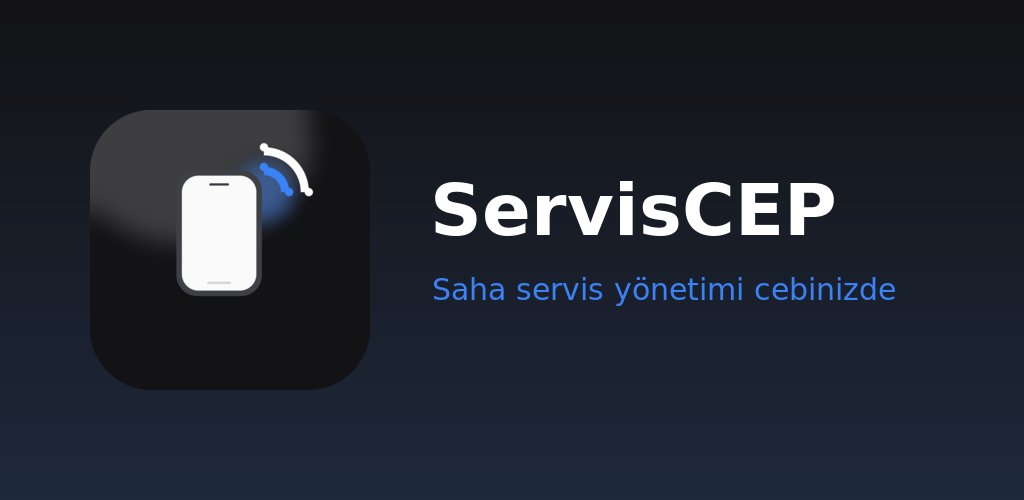
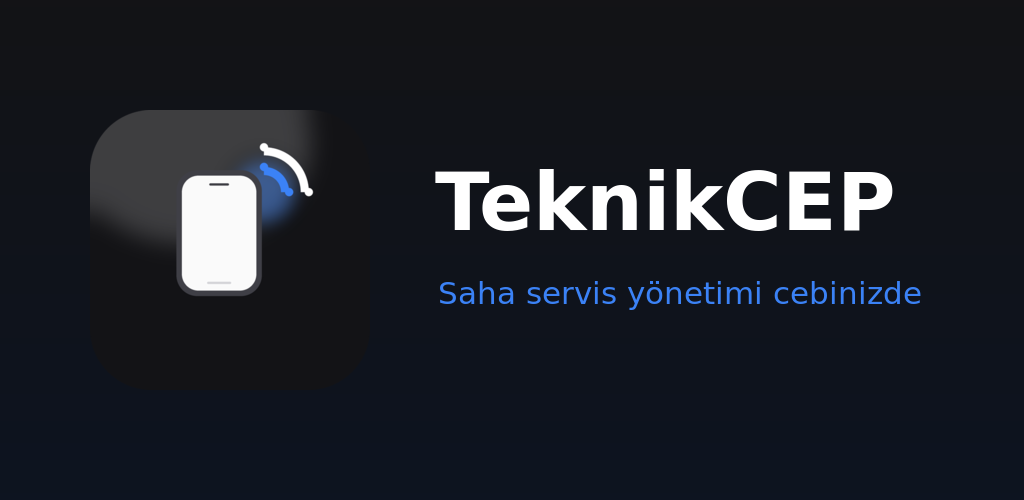
Rebrand: ServisCEP -> TeknikCEP (v0.3.1+16)
Play'de Şubat 2026'dan beri yayında olan "ServisCep" (com.serviscep.app)
ile isim çakışması riski nedeniyle marka adı TeknikCEP olarak değişti.
Teknik kimlikler (paket adı com.cicibyte.serviscep, Dart paket adı,
repo adı, API domaini) bilinçli olarak korunuyor — kullanıcıya görünmez.

- Mobil: Android etiketi, iOS display name, uygulama başlığı, marka
  footer, onboarding metni
- Backend: Filament panel marka adları, composer açıklaması, APP_NAME
- Web placeholder sayfaları: tüm marka metinleri + ölü GitHub APK
  linkleri Play Store linkiyle değiştirildi (GitHub kanalı kapalıydı)
- Play öne çıkan görseli TeknikCEP olarak yeniden üretildi

Changed region(s): [[0.0, 0.9, 1.0, 1.0], [0.4062, 0.33, 0.875, 0.48], [0.4062, 0.54, 0.9062, 0.63]]

diff --git a/deploy/public-placeholder/index.html b/deploy/public-placeholder/index.html
@@ -3,10 +3,10 @@
 <head>
 <meta charset="UTF-8">
 <meta name="viewport" content="width=device-width, initial-scale=1.0">
-<meta name="description" content="ServisCEP — saha teknik servis işletmeleri için mobil-first, offline-first işletme yönetim platformu. Müşteri, iş, teklif/proforma, stok ve finans tek uygulamada.">
+<meta name="description" content="TeknikCEP — saha teknik servis işletmeleri için mobil-first, offline-first işletme yönetim platformu. Müşteri, iş, teklif/proforma, stok ve finans tek uygulamada.">
 <link rel="icon" href="/favicon.ico" sizes="any">
 <link rel="apple-touch-icon" href="/apple-touch-icon.png">
-<title>ServisCEP — Saha Servis Yönetimi</title>
+<title>TeknikCEP — Saha Servis Yönetimi</title>
 <style>
   :root {
     color-scheme: dark;
@@ -344,12 +344,12 @@
 <nav>
   <div class="wrap">
     <a class="brand" href="#top">
-      <img src="/logo.png" alt="ServisCEP logosu" width="32" height="32">
-      <span>ServisCEP</span>
+      <img src="/logo.png" alt="TeknikCEP logosu" width="32" height="32">
+      <span>TeknikCEP</span>
     </a>
     <div class="nav-links">
       <a href="#ozellikler">Özellikler</a>
-      <a href="#neden">Neden ServisCEP</a>
+      <a href="#neden">Neden TeknikCEP</a>
       <a class="nav-login" href="/panel/login">Giriş Yap</a>
       <a class="nav-cta" href="/panel/register">Kayıt Ol</a>
     </div>
@@ -368,7 +368,7 @@
           <svg viewBox="0 0 24 24" fill="none" width="18" height="18"><path d="M5 12h14M13 6l6 6-6 6" stroke="currentColor" stroke-width="2" stroke-linecap="round" stroke-linejoin="round"/></svg>
           Ücretsiz Başlayın
         </a>
-        <a class="btn-secondary" href="https://github.com/RealMrNovember/ServisCEP/releases/latest/download/serviscep.apk">Android için indir</a>
+        <a class="btn-secondary" href="https://play.google.com/store/apps/details?id=com.cicibyte.serviscep">Android için indir</a>
       </div>
       <p class="hero-note"><strong>Google Play'de test aşamasında.</strong> Şimdilik Android uygulamasını buradan da indirebilirsiniz — kurulum için "bilinmeyen kaynaklardan yükleme" izni gerekebilir.</p>
 
@@ -503,7 +503,7 @@
       <h2>Bugün indirin, birkaç dakikada kurulum yapın.</h2>
       <p>Hesap oluşturmak ücretsiz ve anında tamamlanır — onay beklemez.</p>
       <div class="hero-actions">
-        <a class="btn-primary" href="https://github.com/RealMrNovember/ServisCEP/releases/latest/download/serviscep.apk">
+        <a class="btn-primary" href="https://play.google.com/store/apps/details?id=com.cicibyte.serviscep">
           <svg viewBox="0 0 24 24" fill="none" width="18" height="18"><path d="M12 3v12m0 0l-4.5-4.5M12 15l4.5-4.5M5 19h14" stroke="currentColor" stroke-width="2" stroke-linecap="round" stroke-linejoin="round"/></svg>
           Android için indir
         </a>
@@ -515,8 +515,8 @@
 <footer>
   <div class="wrap">
     <div class="footer-brand">
-      <img src="/logo.png" alt="ServisCEP logosu" width="26" height="26">
-      <span>ServisCEP · <a href="https://cicibyte.com" target="_blank" rel="noopener">Cicibyte Teknoloji</a> tarafından geliştirilmiştir</span>
+      <img src="/logo.png" alt="TeknikCEP logosu" width="26" height="26">
+      <span>TeknikCEP · <a href="https://cicibyte.com" target="_blank" rel="noopener">Cicibyte Teknoloji</a> tarafından geliştirilmiştir</span>
     </div>
     <div class="footer-links">
       <a href="/privacy.html">Gizlilik Politikası</a>

diff --git a/deploy/public-placeholder/account-deletion.html b/deploy/public-placeholder/account-deletion.html
@@ -5,7 +5,7 @@
 <meta name="viewport" content="width=device-width, initial-scale=1.0">
 <link rel="icon" href="/favicon.ico" sizes="any">
 <link rel="apple-touch-icon" href="/apple-touch-icon.png">
-<title>ServisCEP — Hesap ve Veri Silme</title>
+<title>TeknikCEP — Hesap ve Veri Silme</title>
 <style>
   :root {
     color-scheme: light dark;
@@ -93,17 +93,17 @@
 </head>
 <body>
   <div class="wrap">
-    <img class="logo" src="/logo.png" alt="ServisCEP logosu" width="56" height="56">
+    <img class="logo" src="/logo.png" alt="TeknikCEP logosu" width="56" height="56">
     <h1>Hesap ve Veri Silme</h1>
     <p class="updated">Son güncelleme: 19 Ağustos 2026</p>
 
-    <p>ServisCEP kullanıcıları, hesaplarını ve hesaplarıyla ilişkili tüm verileri
+    <p>TeknikCEP kullanıcıları, hesaplarını ve hesaplarıyla ilişkili tüm verileri
     silme talebinde bulunabilir. Bu sayfa, talebin nasıl iletileceğini ve
     silme sürecinde neler olacağını açıklar.</p>
 
     <h2>Silme talebi nasıl gönderilir</h2>
     <ol>
-      <li>Uygulamaya kayıtlı e-posta adresinizden <a href="mailto:info@cicibyte.com?subject=ServisCEP%20Hesap%20Silme%20Talebi">info@cicibyte.com</a>
+      <li>Uygulamaya kayıtlı e-posta adresinizden <a href="mailto:info@cicibyte.com?subject=TeknikCEP%20Hesap%20Silme%20Talebi">info@cicibyte.com</a>
       adresine "Hesap Silme Talebi" konu başlığıyla bir e-posta gönderin.</li>
       <li>E-postada şirket adınızı ve uygulamaya kayıtlı e-posta adresinizi belirtin.</li>
       <li>Talebiniz, kimliğiniz e-posta üzerinden doğrulandıktan sonra
@@ -113,7 +113,7 @@
 
     <div class="card">
       <p style="margin:0 0 12px"><strong>Hızlı erişim:</strong></p>
-      <a class="mail-btn" href="mailto:info@cicibyte.com?subject=ServisCEP%20Hesap%20Silme%20Talebi">
+      <a class="mail-btn" href="mailto:info@cicibyte.com?subject=TeknikCEP%20Hesap%20Silme%20Talebi">
         Silme talebi e-postası gönder
       </a>
     </div>
@@ -143,7 +143,7 @@
   </div>
 
   <footer>
-    ServisCEP · <a href="https://cicibyte.com" target="_blank" rel="noopener">Cicibyte Teknoloji</a> tarafından geliştirilmiştir
+    TeknikCEP · <a href="https://cicibyte.com" target="_blank" rel="noopener">Cicibyte Teknoloji</a> tarafından geliştirilmiştir
   </footer>
 </body>
 </html>

diff --git a/deploy/public-placeholder/privacy.html b/deploy/public-placeholder/privacy.html
@@ -5,7 +5,7 @@
 <meta name="viewport" content="width=device-width, initial-scale=1.0">
 <link rel="icon" href="/favicon.ico" sizes="any">
 <link rel="apple-touch-icon" href="/apple-touch-icon.png">
-<title>ServisCEP — Gizlilik Politikası</title>
+<title>TeknikCEP — Gizlilik Politikası</title>
 <style>
   :root {
     color-scheme: light dark;
@@ -78,11 +78,11 @@
 </head>
 <body>
   <div class="wrap">
-    <img class="logo" src="/logo.png" alt="ServisCEP logosu" width="56" height="56">
+    <img class="logo" src="/logo.png" alt="TeknikCEP logosu" width="56" height="56">
     <h1>Gizlilik Politikası</h1>
     <p class="updated">Son güncelleme: 18 Ağustos 2026</p>
 
-    <p>ServisCEP ("uygulama"), Cicibyte Teknoloji tarafından geliştirilen, saha teknik servis işletmelerinin
+    <p>TeknikCEP ("uygulama"), Cicibyte Teknoloji tarafından geliştirilen, saha teknik servis işletmelerinin
     müşteri, iş, teklif/proforma ve finans süreçlerini yönetmesi için tasarlanmış mobil-first bir işletme
     yönetim platformudur. Bu sayfa, uygulamayı kullanan işletme sahibi ve çalışanları ("kullanıcı") ile
     kullanıcının kendi müşterilerine ait verilerin nasıl işlendiğini açıklar.</p>
@@ -121,14 +121,14 @@
     elektronik imza yerine geçmediği açıkça belirtilir.</p>
 
     <div class="card">
-      <p style="margin:0">Bu sayfa, Google Play Store gereksinimleri için ServisCEP'in genel gizlilik
+      <p style="margin:0">Bu sayfa, Google Play Store gereksinimleri için TeknikCEP'in genel gizlilik
       yaklaşımını özetler; kapsamlı bir KVKK uyum raporu yerine geçmez. Sorularınız için
       <a href="mailto:info@cicibyte.com">info@cicibyte.com</a> üzerinden bize ulaşabilirsiniz.</p>
     </div>
   </div>
 
   <footer style="text-align:center">
-    ServisCEP · <a href="https://cicibyte.com" target="_blank" rel="noopener">Cicibyte Teknoloji</a> tarafından geliştirilmiştir
+    TeknikCEP · <a href="https://cicibyte.com" target="_blank" rel="noopener">Cicibyte Teknoloji</a> tarafından geliştirilmiştir
   </footer>
 </body>
 </html>

diff --git a/mobile/lib/shared/brand_footer.dart b/mobile/lib/shared/brand_footer.dart
@@ -4,7 +4,7 @@ import 'package:url_launcher/url_launcher.dart';
 /// Standart marka/geliştirici atfı — uygulama genelinde footer alanlarında
 /// (Dashboard, Daha Fazla/Hakkında ekranı vb.) kullanılır.
 ///
-/// Bu, Claude/Anthropic atfı DEĞİLDİR — ServisCEP'i geliştiren şirketin
+/// Bu, Claude/Anthropic atfı DEĞİLDİR — TeknikCEP'i geliştiren şirketin
 /// kendi atfıdır, kullanıcı talebiyle eklenmiştir.
 class BrandFooter extends StatelessWidget {
   const BrandFooter({super.key});
@@ -29,7 +29,7 @@ class BrandFooter extends StatelessWidget {
                   color: scheme.onSurfaceVariant,
                 ),
                 children: [
-                  const TextSpan(text: 'ServisCEP · '),
+                  const TextSpan(text: 'TeknikCEP · '),
                   TextSpan(
                     text: 'Cicibyte Teknoloji',
                     style: TextStyle(

diff --git a/mobile/lib/app/app.dart b/mobile/lib/app/app.dart
@@ -6,8 +6,8 @@ import '../core/sync/sync_trigger.dart';
 import 'router.dart';
 import 'theme.dart';
 
-class ServisCepApp extends ConsumerWidget {
-  const ServisCepApp({super.key});
+class TeknikCepApp extends ConsumerWidget {
+  const TeknikCepApp({super.key});
 
   @override
   Widget build(BuildContext context, WidgetRef ref) {
@@ -16,7 +16,7 @@ class ServisCepApp extends ConsumerWidget {
     ref.watch(syncTriggerProvider);
     final router = ref.watch(routerProvider);
     return MaterialApp.router(
-      title: 'ServisCEP',
+      title: 'TeknikCEP',
       debugShowCheckedModeBanner: false,
       theme: AppTheme.light(),
       darkTheme: AppTheme.dark(),

diff --git a/mobile/lib/features/auth/onboarding_screen.dart b/mobile/lib/features/auth/onboarding_screen.dart
@@ -121,7 +121,7 @@ class _OnboardingScreenState extends ConsumerState<OnboardingScreen> {
               crossAxisAlignment: CrossAxisAlignment.start,
               children: [
                 Text(
-                  'ServisCEP\'e hoş geldin',
+                  'TeknikCEP\'e hoş geldin',
                   style: Theme.of(context).textTheme.headlineMedium?.copyWith(
                     fontWeight: FontWeight.w700,
                   ),

diff --git a/mobile/lib/core/database/tables.dart b/mobile/lib/core/database/tables.dart
@@ -1,6 +1,6 @@
 import 'package:drift/drift.dart';
 
-/// ServisCEP yerel veritabanı şeması (Drift).
+/// TeknikCEP yerel veritabanı şeması (Drift).
 ///
 /// Bkz. docs/07 § Veritabanı Ana Modeli — bu tablolar, backend PostgreSQL
 /// şemasının yerel/offline karşılığıdır. Alan adları backend ile bilinçli

diff --git a/mobile/lib/app/theme.dart b/mobile/lib/app/theme.dart
@@ -1,6 +1,6 @@
 import 'package:flutter/material.dart';
 
-/// ServisCEP marka renkleri.
+/// TeknikCEP marka renkleri.
 /// Kaynak: docs/14-marka-kimligi.md — bu dosyayla senkron tutulmalıdır.
 abstract final class AppColors {
   static const accent = Color(0xFF3B82F6);

diff --git a/mobile/lib/main.dart b/mobile/lib/main.dart
@@ -9,5 +9,5 @@ void main() async {
   WidgetsFlutterBinding.ensureInitialized();
   await initializeDateFormatting('tr_TR');
   await NotificationService.init();
-  runApp(const ProviderScope(child: ServisCepApp()));
+  runApp(const ProviderScope(child: TeknikCepApp()));
 }

diff --git a/backend/app/Providers/Filament/AdminPanelProvider.php b/backend/app/Providers/Filament/AdminPanelProvider.php
@@ -27,7 +27,7 @@ class AdminPanelProvider extends PanelProvider
             ->default()
             ->id('admin')
             ->path('admin')
-            ->brandName('ServisCEP Admin')
+            ->brandName('TeknikCEP Admin')
             ->authGuard('admin')
             ->login()
             // Adminler şifrelerini e-postayla kendileri sıfırlayabilsin —

diff --git a/backend/app/Providers/Filament/AppPanelProvider.php b/backend/app/Providers/Filament/AppPanelProvider.php
@@ -28,7 +28,7 @@ class AppPanelProvider extends PanelProvider
         return $panel
             ->id('app')
             ->path('panel')
-            ->brandName('ServisCEP')
+            ->brandName('TeknikCEP')
             ->authGuard('web')
             ->login()
             ->registration(RegisterCompany::class)

diff --git a/README.md b/README.md
@@ -1,8 +1,8 @@
 <div align="center">
 
-<img src="assets/branding/icon-192.png" width="96" height="96" alt="ServisCEP logosu">
+<img src="assets/branding/icon-192.png" width="96" height="96" alt="TeknikCEP logosu">
 
-# ServisCEP
+# TeknikCEP
 
 **Saha teknik servis işletmeleri için mobil-first, offline-first işletme yönetim platformu.**
 
@@ -26,7 +26,7 @@ zincirini tek bir mobil uygulamada birleştirir.
 
 ## Proje Hakkında
 
-ServisCEP, elektrik, güvenlik sistemleri (kamera/alarm), bilgisayar/network gibi alanlarda faaliyet gösteren **saha teknik servis işletmelerinin** günlük operasyonunu yönetmek için tasarlanmış bir mobil uygulamadır.
+TeknikCEP, elektrik, güvenlik sistemleri (kamera/alarm), bilgisayar/network gibi alanlarda faaliyet gösteren **saha teknik servis işletmelerinin** günlük operasyonunu yönetmek için tasarlanmış bir mobil uygulamadır.
 
 Amaç, "her şeyi yapan dev bir ERP" değil; **sahada çalışan teknik işletmenin telefonunu, işletmenin merkezine dönüştürmektir.** Kullanıcı uygulamayı açtığında ilk göreceği şey her zaman şudur: *"Bugün ne yapacağım?"*
 
